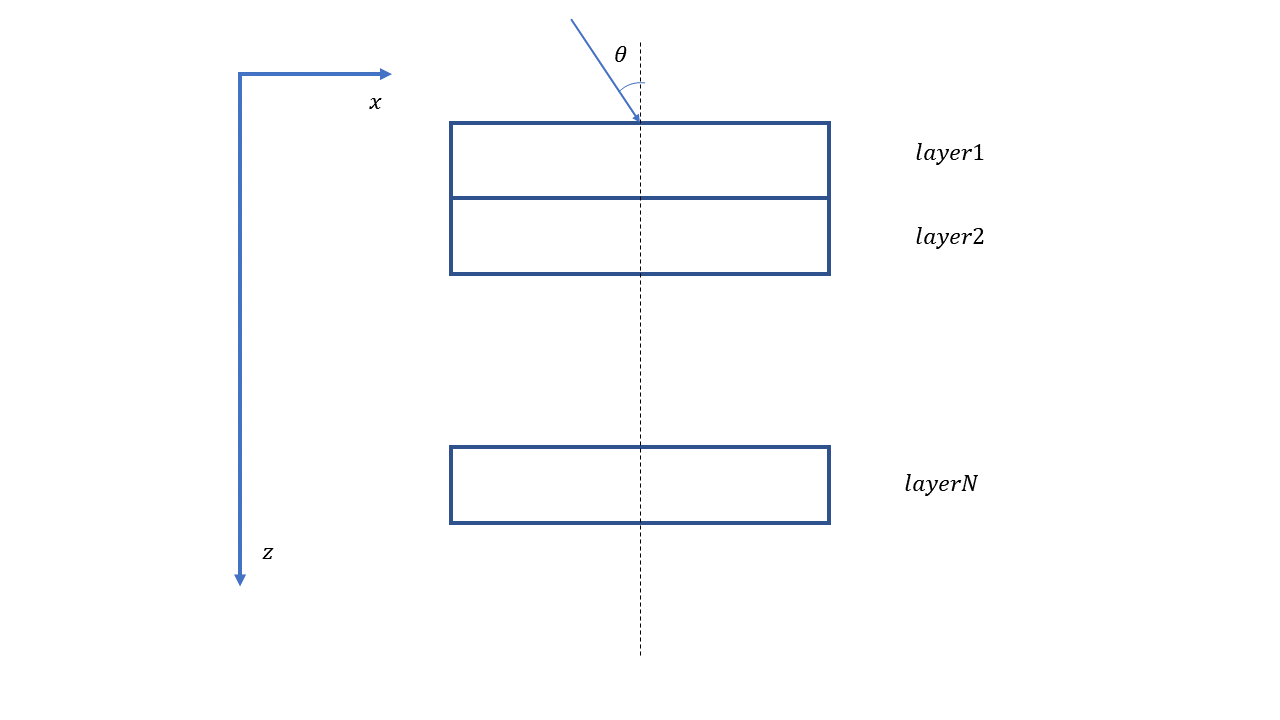
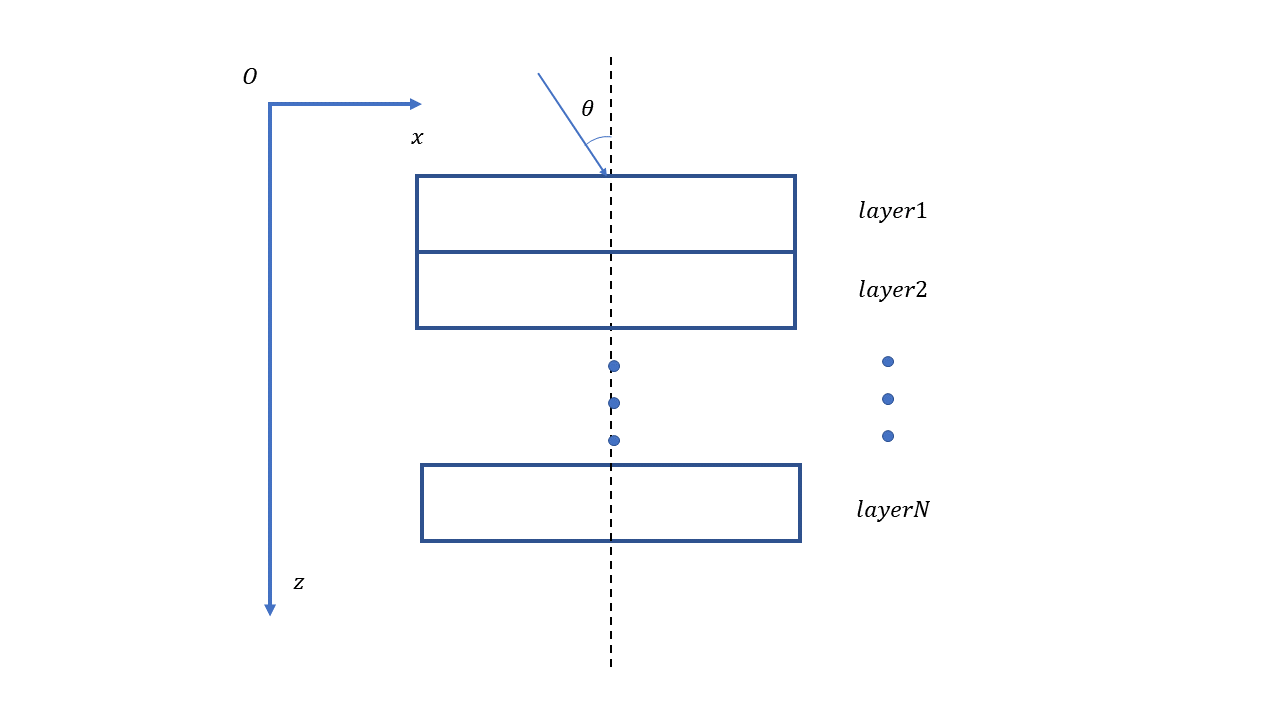
readme

diff --git a/README.md b/README.md
@@ -2,6 +2,9 @@
 # 传输矩阵法C++代码实现
 
 ## 原理
+传输矩阵法是一种用于分析和设计多层光学、电磁学或声学系统的方法。它通过将系统分解为一系列基本层，并利用矩阵运算来描述每层对波的传播特性的影响，从而高效地计算整个系统的传输或反射特性。这种方法广泛应用于光学薄膜设计、光波导分析、声学多层结构分析等领域。
+
+
 
 ![](images/p1.png)
 
